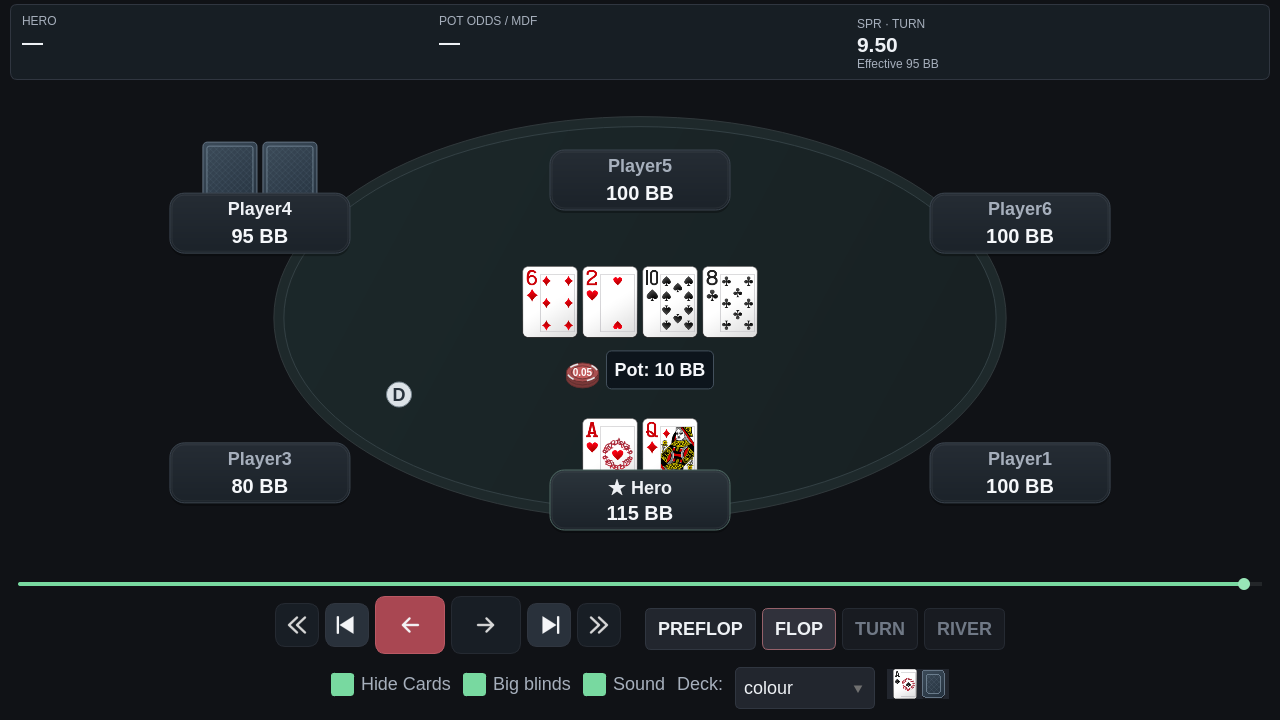
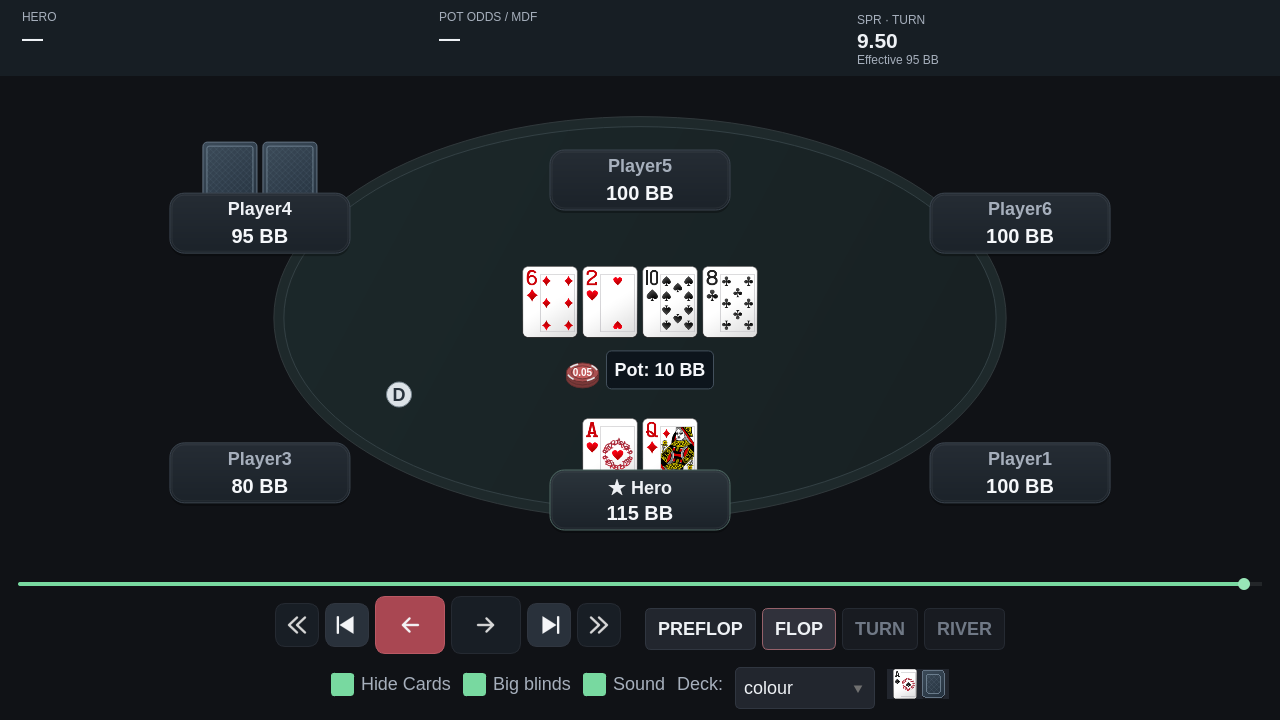
style: make the replay decision strip flush with the window edges

diff --git a/fpdb_3_legacy/GuiReplayer.py b/fpdb_3_legacy/GuiReplayer.py
@@ -835,7 +835,7 @@ class GuiReplayer(QWidget):
         self.setWindowTitle(_("FPDB Hand Replayer"))
 
         self.replayBox = QVBoxLayout()
-        self.replayBox.setContentsMargins(10, 4, 10, 10)
+        self.replayBox.setContentsMargins(0, 0, 0, 10)
         self.replayBox.setSpacing(4)
         self.setLayout(self.replayBox)
 
@@ -952,7 +952,7 @@ class GuiReplayer(QWidget):
         self.controls = QWidget(self)
         self.controls.setFixedHeight(CONTROL_RESERVED_HEIGHT - 14)
         controls_layout = QVBoxLayout(self.controls)
-        controls_layout.setContentsMargins(8, 0, 8, 0)
+        controls_layout.setContentsMargins(18, 0, 18, 0)
         controls_layout.setSpacing(4)
         controls_layout.addWidget(self.stateSlider)
         navigation = QHBoxLayout()

diff --git a/fpdb_3_legacy/replayer_decision_panel.py b/fpdb_3_legacy/replayer_decision_panel.py
@@ -25,9 +25,9 @@ class DecisionPanel(QWidget):
         self.setObjectName("decisionPanel")
         self.setAttribute(Qt.WidgetAttribute.WA_StyledBackground, True)
         self.setFixedHeight(76)
-        self.setStyleSheet("QWidget#decisionPanel {background:#171e24; border:1px solid #303640; border-radius:7px;}")
+        self.setStyleSheet("QWidget#decisionPanel {background:#171e24; border:none; border-radius:0px;}")
         layout = QHBoxLayout(self)
-        layout.setContentsMargins(12, 5, 12, 5)
+        layout.setContentsMargins(22, 5, 22, 5)
         layout.setSpacing(16)
         self.labels = [QLabel(self) for _ in range(3)]
         for label in self.labels:

diff --git a/tests/qt/test_personal_replayer_integration.py b/tests/qt/test_personal_replayer_integration.py
@@ -243,7 +243,9 @@ def test_wide_replayer_has_only_table_and_commands_without_header_or_timeline(qt
     assert replayer.decisionPanel.isVisible()
     assert replayer.decisionPanel.parent() is replayer
     assert replayer.decisionPanel.geometry().bottom() < replayer.controls.geometry().top()
-    assert replayer.decisionPanel.geometry().top() <= 10
+    assert replayer.decisionPanel.geometry().top() == 0
+    assert replayer.decisionPanel.geometry().left() == 0
+    assert replayer.decisionPanel.width() == replayer.width()
     for mock in removed:
         mock.assert_not_called()
 

diff --git a/docs/REPLAYER_DECISION_STRIP.md b/docs/REPLAYER_DECISION_STRIP.md
@@ -7,6 +7,9 @@ O header visual antigo foi removido integralmente: modalidade/stake, site, ID da
 contagem de passos, dicas e os botões Actions/Share/Solver review. A timeline
 lateral também deixa de ocupar a janela larga.
 
+A superfície ocupa toda a largura e encosta no topo e nas laterais, sem
+margem externa, borda ou cantos arredondados. O texto mantém espaçamento interno.
+
 A faixa de decisão fica no topo da janela, em três posições fixas:
 
 1. **Contexto:** call, bet ou investimento novo do raise, com sizing em % do pote.
